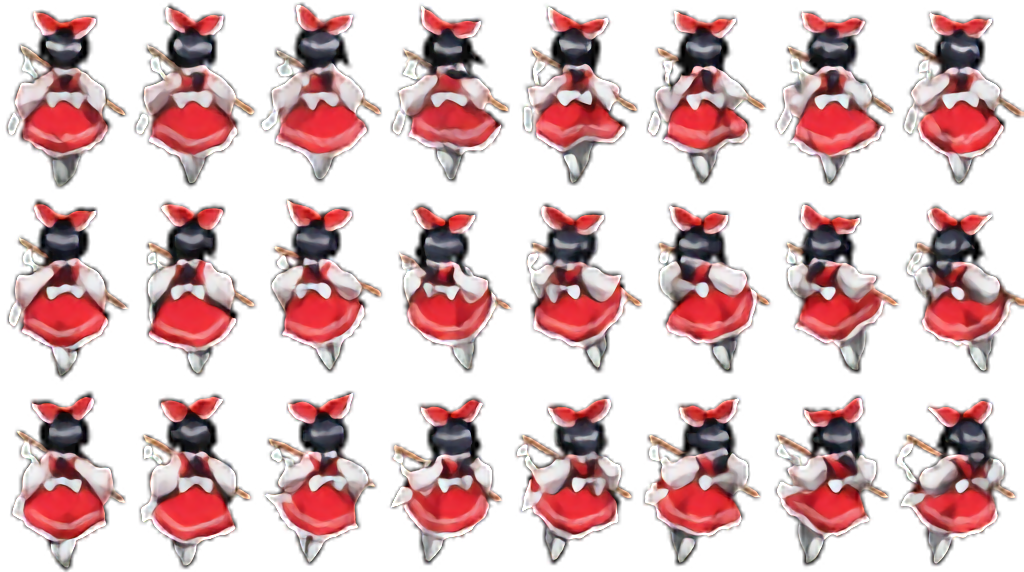
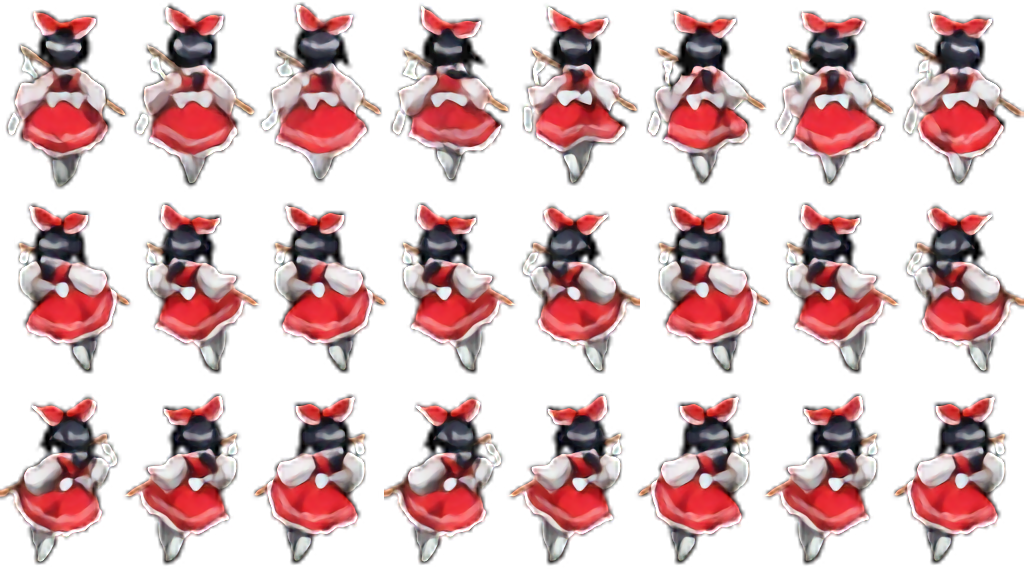
Change Reimu's animation and wing plane texture

Changed region(s): [[0.0, 0.6836, 1.0, 1.0], [0.0, 0.3269, 0.625, 0.6538]]

diff --git a/th902-main/src/cn/s3bit/th902/gamecontents/components/player/PlayerReimu.java b/th902-main/src/cn/s3bit/th902/gamecontents/components/player/PlayerReimu.java
@@ -29,10 +29,10 @@ public class PlayerReimu extends Player {
 		TextureRegion[][] splitted = TextureRegion.split(texture, texture.getWidth() / 8, texture.getHeight() / 3);
 		animationStay = new Animation<TextureRegion>(5, splitted[0]);
 		animationStay.setPlayMode(PlayMode.LOOP);
-		animationLeft = new Animation<TextureRegion>(2, splitted[1]);
-		animationLeft.setPlayMode(PlayMode.NORMAL);
-		animationRight = new Animation<TextureRegion>(2, splitted[2]);
-		animationRight.setPlayMode(PlayMode.NORMAL);
+		animationLeft = new Animation<TextureRegion>(4, splitted[1]);
+		animationLeft.setPlayMode(PlayMode.LOOP);
+		animationRight = new Animation<TextureRegion>(4, splitted[2]);
+		animationRight.setPlayMode(PlayMode.LOOP);
 	}
 
 	@Override
